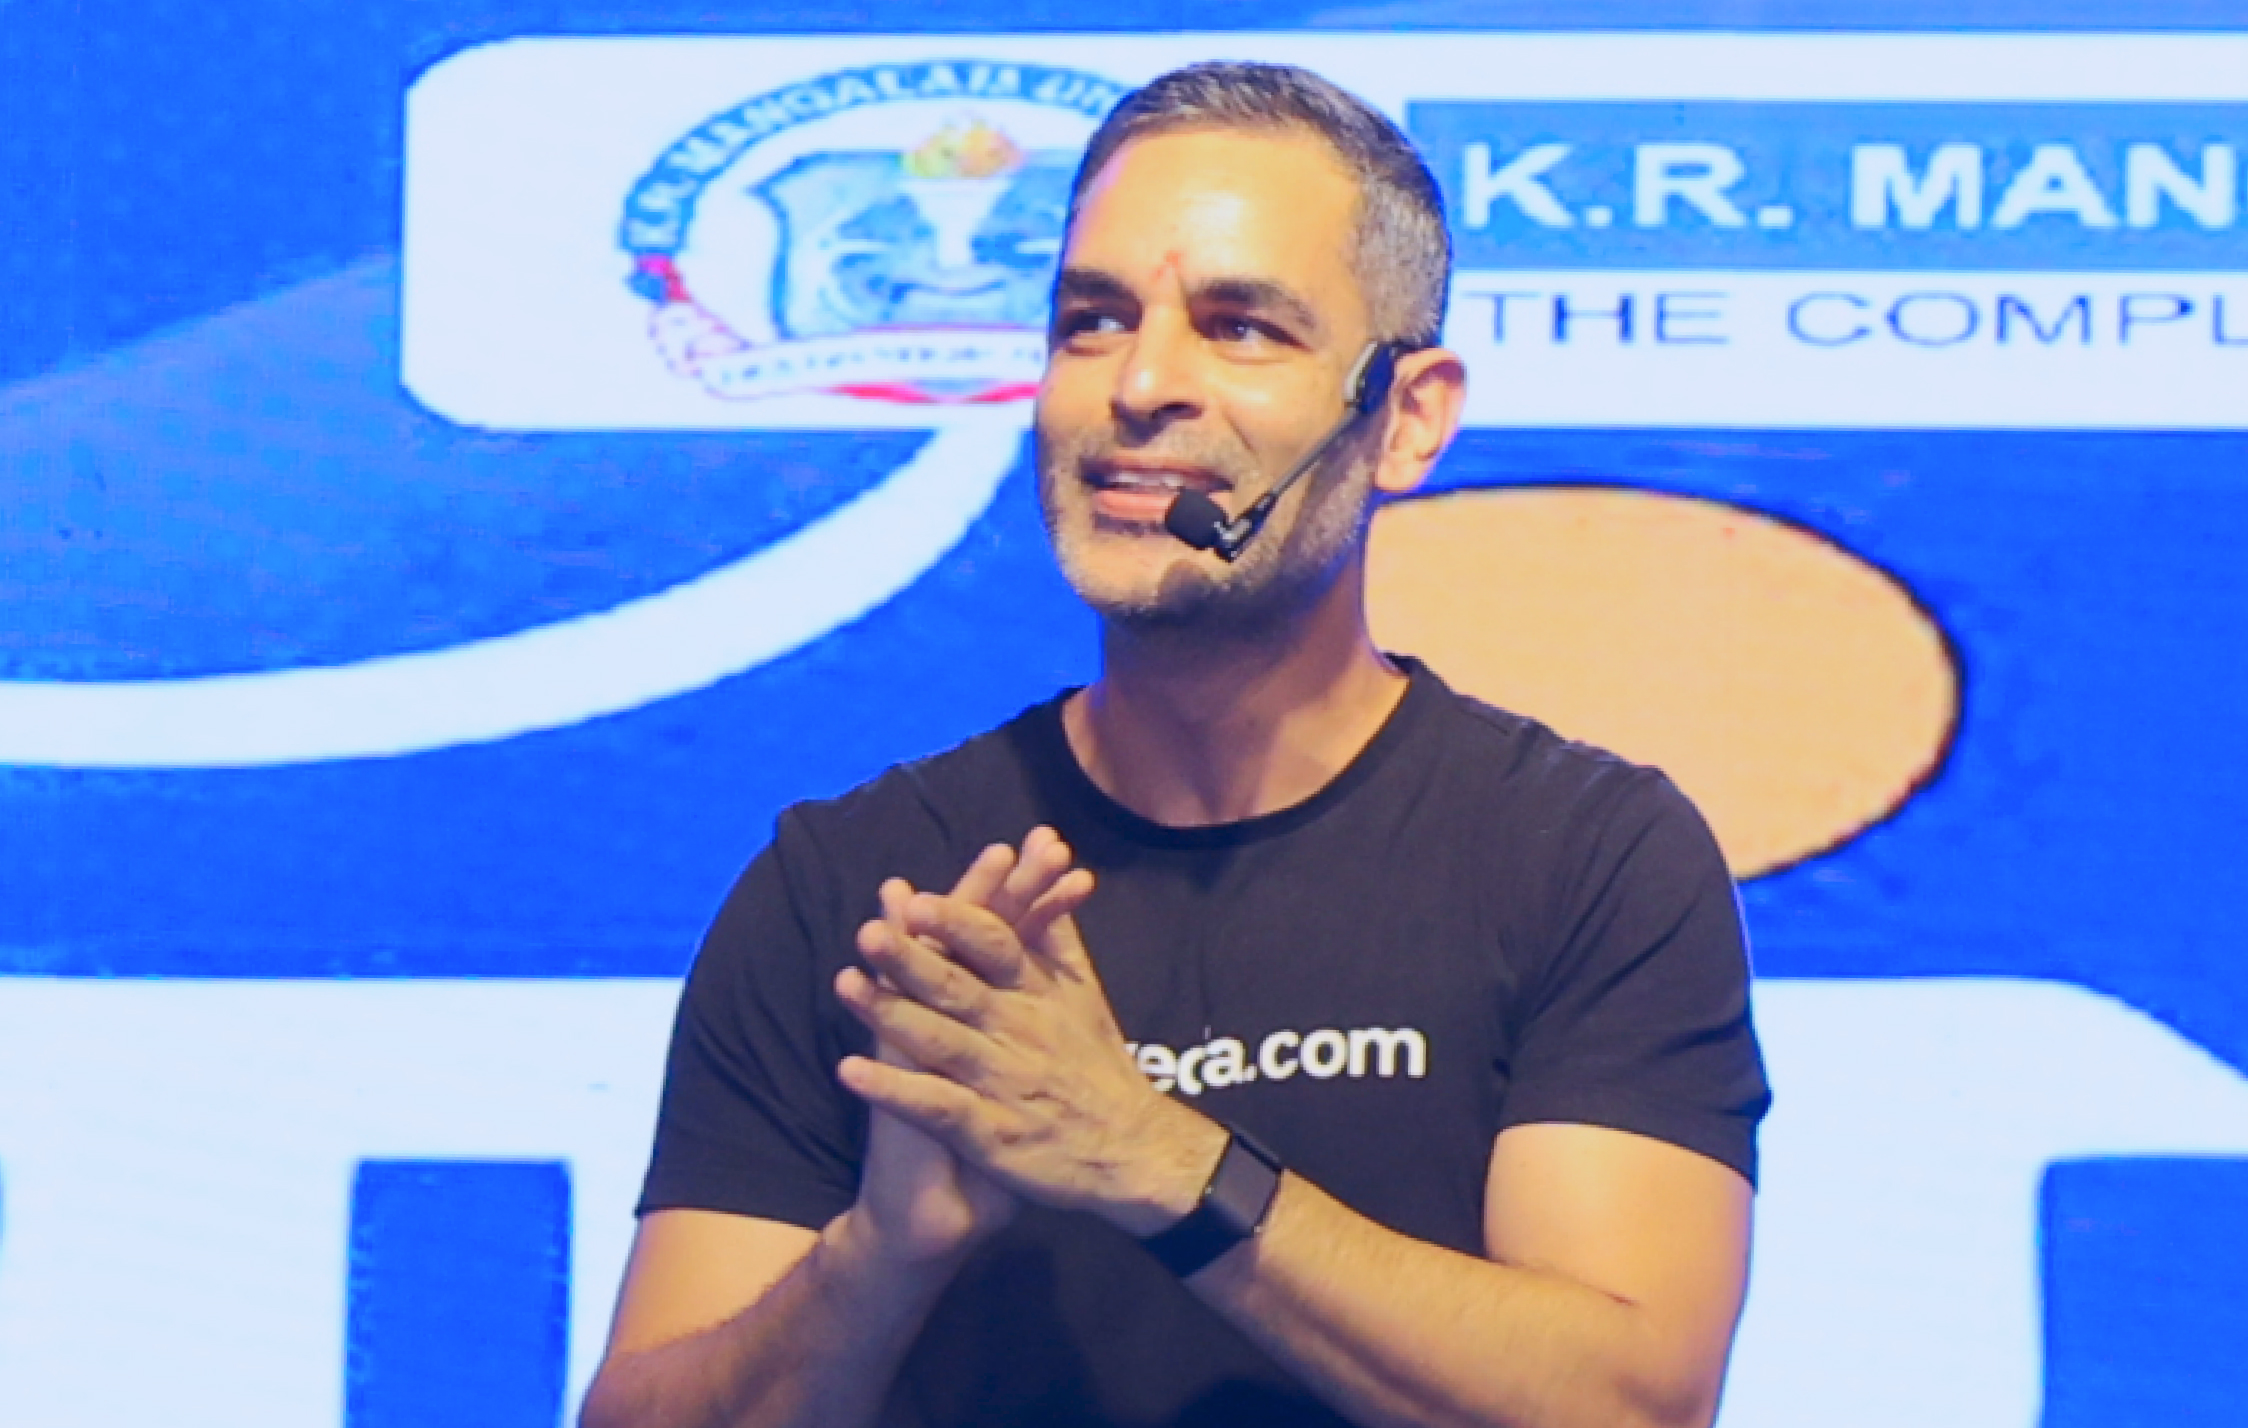
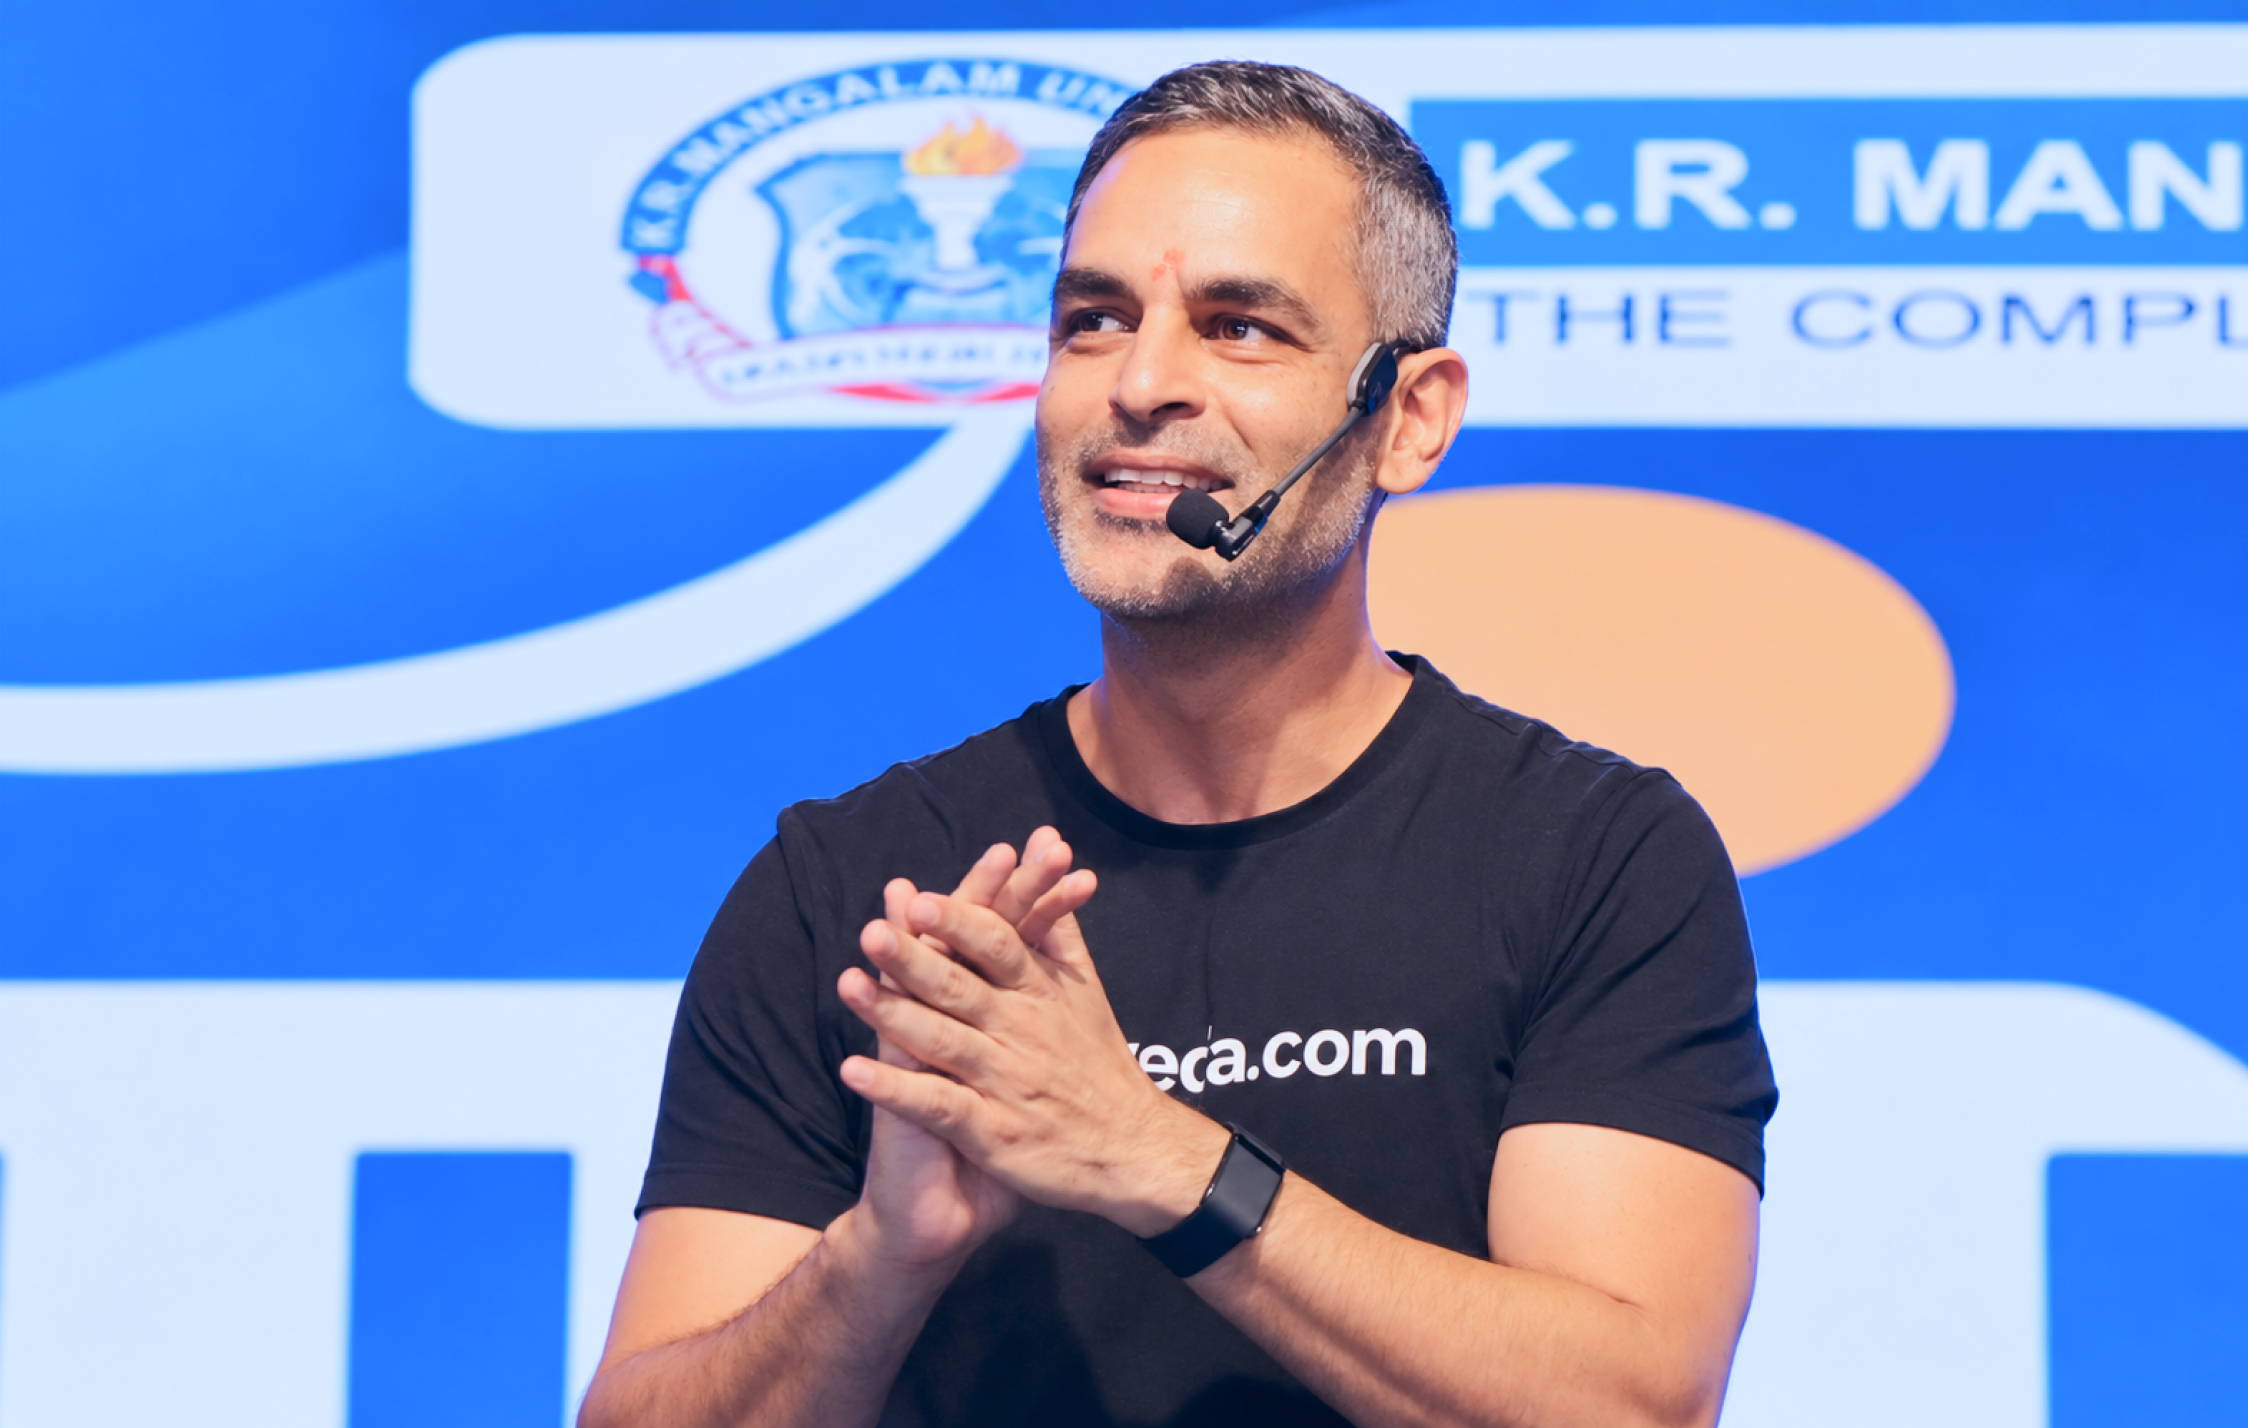
feat: add LifeAtKRMUSection component with home constants and gallery assets

diff --git a/src/features/home/home.constants.ts b/src/features/home/home.constants.ts
@@ -167,66 +167,66 @@ export const LIFE_AT_KRMU_GALLERY: LifeAtKRMUGalleryType[] = [
     {
         id: 1,
         src: "/images/home/whykrmu/1.jpg",
-        // alt: "Students enjoying recreation and sports at K.R. Mangalam University indoor gaming lounge",
-        // category: "Sports & Recreation",
-        // title: "Campus Recreation Hub",
-        // description:
-        //     "Vibrant recreational lounge with pool, indoor games, and social relaxation zones.",
+        alt: "Students enjoying recreation and sports at K.R. Mangalam University indoor gaming lounge",
+        category: "Sports & Recreation",
+        title: "Campus Recreation Hub",
+        description:
+            "Vibrant recreational lounge with pool, indoor games, and social relaxation zones.",
     },
     {
         id: 2,
         src: "/images/home/whykrmu/2.jpg",
-        // alt: "Students working with quadruped robotics in KRMU advanced robotics lab",
-        // category: "Tech & Robotics",
-        // title: "Robotics & AI Labs",
-        // description:
-        //     "Hands-on engineering with quadruped robotics, automation systems, and innovative student projects.",
+        alt: "Students working with quadruped robotics in KRMU advanced robotics lab",
+        category: "Tech & Robotics",
+        title: "Robotics & AI Labs",
+        description:
+            "Hands-on engineering with quadruped robotics, automation systems, and innovative student projects.",
     },
     {
         id: 3,
         src: "/images/home/whykrmu/3.jpg",
-        // alt: "Diverse students engaging in campus life and peer learning at KRMU",
-        // category: "Campus Life",
-        // title: "Vibrant Student Community",
-        // description:
-        //     "Collaborative learning, outdoor brainstorming, and lifelong camaraderie on campus.",
+        alt: "Diverse students engaging in campus life and peer learning at KRMU",
+        category: "Campus Life",
+        title: "Vibrant Student Community",
+        description:
+            "Collaborative learning, outdoor brainstorming, and lifelong camaraderie on campus.",
     },
     {
         id: 4,
         src: "/images/home/whykrmu/4.jpg",
-        // alt: "Journalism student reporting from the KRMU School of Journalism and Mass Communication studio",
-        // category: "Media & Broadcasting",
-        // title: "SJMC Media Studio",
-        // description:
-        //     "Professional broadcasting equipment, news reporting suites, and multi-camera television studios.",
+        alt: "Journalism student reporting from the KRMU School of Journalism and Mass Communication studio",
+        category: "Media & Broadcasting",
+        title: "SJMC Media Studio",
+        description:
+            "Professional broadcasting equipment, news reporting suites, and multi-camera television studios.",
     },
     {
         id: 5,
         src: "/images/home/whykrmu/5.jpg",
-        // alt: "Student researching in the modern KRMU central library",
-        // category: "Academic Excellence",
-        // title: "Central Knowledge Hub",
-        // description:
-        //     "Extensive digital and print collections fostering in-depth academic inquiry and focused study.",
+        alt: "Student researching in the modern KRMU central library",
+        category: "Academic Excellence",
+        title: "Central Knowledge Hub",
+        description:
+            "Extensive digital and print collections fostering in-depth academic inquiry and focused study.",
     },
     {
         id: 6,
         src: "/images/home/whykrmu/6.jpg",
-        // alt: "Ankur Warikoo being felicitated during Aarambh orientation program at K.R. Mangalam University",
-        // category: "Leadership Sessions",
-        // title: "Ankur Warikoo at Aarambh",
-        // description:
-        //     "Mentorship and motivational sessions with eminent entrepreneurs, founders, and industry trailblazers.",
+        alt: "Ankur Warikoo being felicitated during Aarambh orientation program at K.R. Mangalam University",
+        category: "Leadership Sessions",
+        title: "Ankur Warikoo at Aarambh",
+        description:
+            "Mentorship and motivational sessions with eminent entrepreneurs, founders, and industry trailblazers.",
     },
 
     {
         id: 9,
         src: "/images/home/whykrmu/9.jpg",
-        // alt: "Fashion models presenting designer collection at KRMU fashion show",
-        // category: "Fashion & Design",
-        // title: "Bello Globe Life Runway",
-        // description:
-        //     "High-fashion runway presentations showcasing the creative couture of student designers.",
+        alt: "Fashion models presenting designer collection at KRMU fashion show",
+        category: "Fashion & Design",
+        title: "Bello Globe Life Runway",
+        description:
+            "High-fashion runway presentations showcasing the creative couture of student designers.",
     },
 ];
 

diff --git a/src/presentation/home/sections/LifeAtKRMUSection.tsx b/src/presentation/home/sections/LifeAtKRMUSection.tsx
@@ -284,6 +284,7 @@ export function LifeAtKRMUSection() {
                 sizes="(max-width: 768px) 380px, 520px"
                 className="object-cover object-center group-hover:scale-[1.04] transition-transform duration-700 ease-[cubic-bezier(0.25,1,0.5,1)] pointer-events-none will-change-transform"
                 loading="lazy"
+                unoptimized
             />
 
             {/* Subtle bottom gradient vignette (Smooth height and opacity expansion) */}
